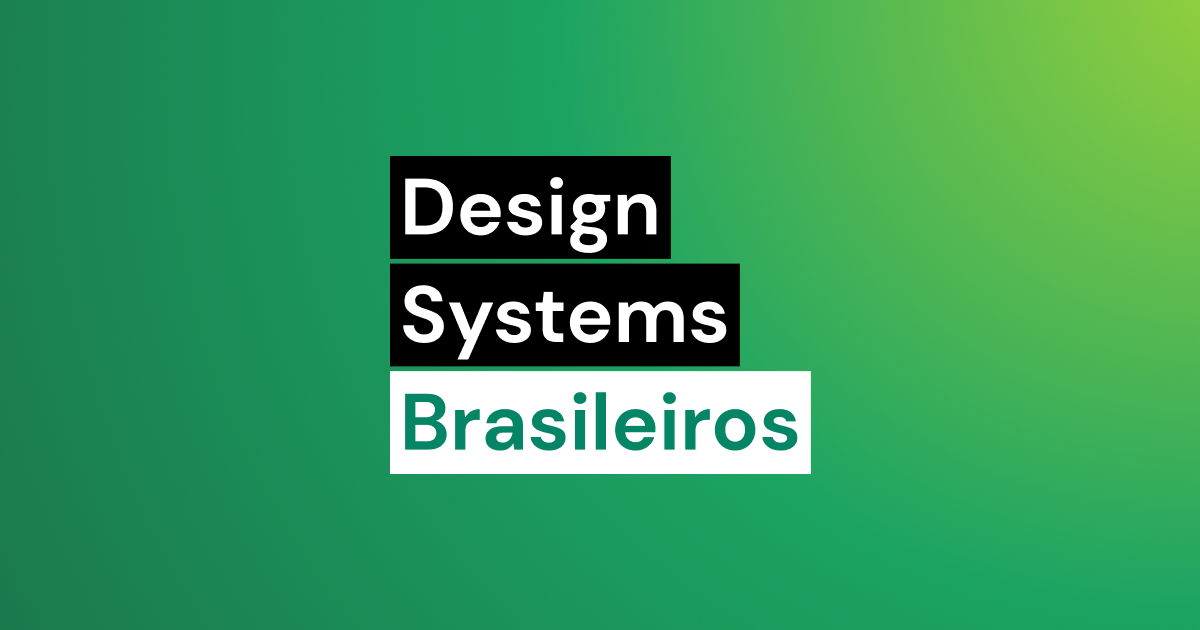
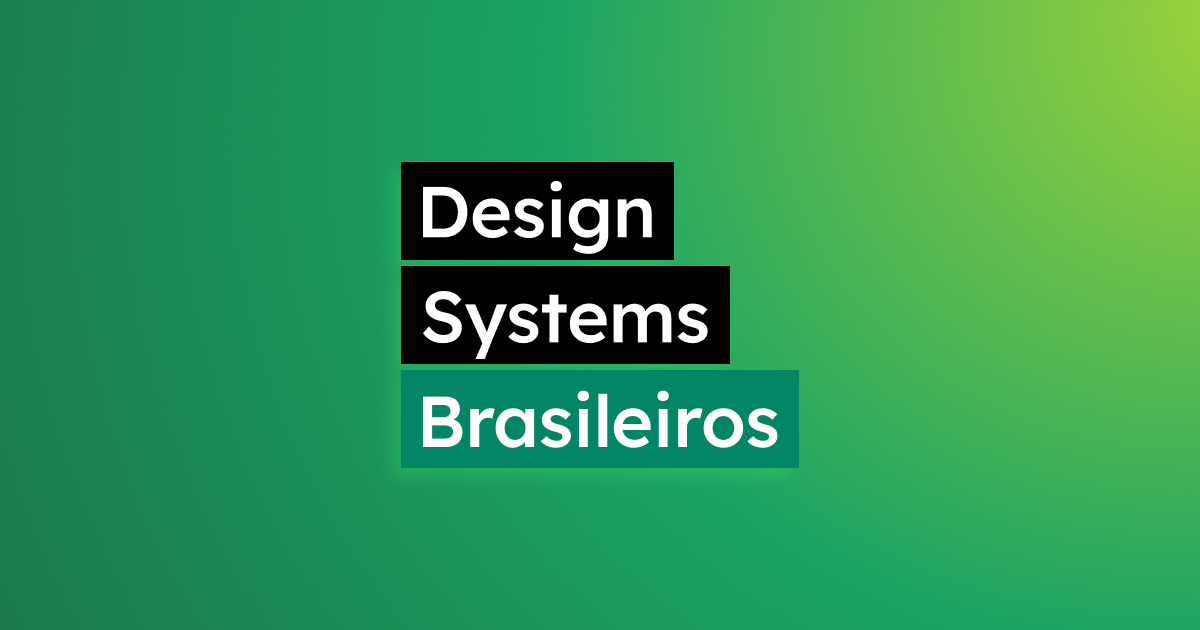
Google font added

Changed region(s): [[0.3083, 0.2413, 0.6783, 0.754]]

diff --git a/styles/notion.css b/styles/notion.css
@@ -26,6 +26,7 @@
 }
 
 .notion-text {
+  font-weight: 300;
   padding: 0.5em 2px;
 }
 
@@ -58,8 +59,8 @@
   border-top: 1px solid var(--bg-color-1);
   padding-top: 1.5em;
   grid-template-columns: repeat(auto-fill, minmax(320px, 1fr));
-  grid-gap: 4vmin;
-  gap: 4vmin;
+  grid-gap: 3vmin;
+  gap: 3vmin;
 }
 
 .notion-gallery-grid .notion-page-icon {
@@ -68,6 +69,7 @@
 
 .notion-gallery-grid .notion-page-title-text {
   font-size: 2em;
+  font-weight: 400;
   white-space: unset;
 }
 
@@ -128,7 +130,7 @@
   filter: none;
 }
 
-.notion-collection-card .notion-collection-card-cover {
+/* .notion-collection-card .notion-collection-card-cover {
   -webkit-filter: opacity(.9);
   filter: opacity(.9);
 }
@@ -136,7 +138,7 @@
 .notion-collection-card:hover .notion-collection-card-cover {
   -webkit-filter: opacity(1);
   filter: opacity(1);
-}
+} */
 
 .notion-collection-card-body {
   padding: 12px 16px;
@@ -276,20 +278,16 @@
   content: ""
 }
 
-h1.notion-title {
+h1.notion-title,
+.notion-h,
+.notion-toggle > summary b,
+.notion-page-title-text {
   font-weight: 400;
 }
 
-.notion-h {
-  font-weight: 400;
-}
-
+.notion-callout-text,
 h4.notion-block-d01146f637be46e6846957f1fe81d6b6 {
-  font-weight: 400;
-}
-
-.notion-toggle > summary b {
-  font-weight: 400;
+  font-weight: 300;
 }
 
 .notion-block-f37b54a78ae846229322afc6d604a303 {margin-bottom: 2em;}
@@ -315,7 +313,7 @@ h4.notion-block-d01146f637be46e6846957f1fe81d6b6 {
 .notion-page-cover {
   height: 40vh;
   max-height: 40vh;
-  max-width: 880px;
+  max-width: 1080px;
   border-radius: 12px;
   /* box-shadow: 2px 2px 8px 4px rgba(15, 15, 15, 0.1); */
 }

diff --git a/styles/global.css b/styles/global.css
@@ -7,12 +7,12 @@ a {
   text-decoration: none;
 }
 
-@import url('https://fonts.googleapis.com/css2?family=DM+Sans:ital,wght@0,400;0,700;1,400;1,700&display=swap');
+@import url('https://fonts.googleapis.com/css2?family=Lexend+Deca:wght@300;400;500&family=Prompt:wght@200;300;400&display=swap');
 
 body,
 html,
 .notion {
-  font-family: 'DM Sans', sans-serif !important;
+  font-family: 'Lexend Deca', sans-serif !important;
 }
 
 body {
